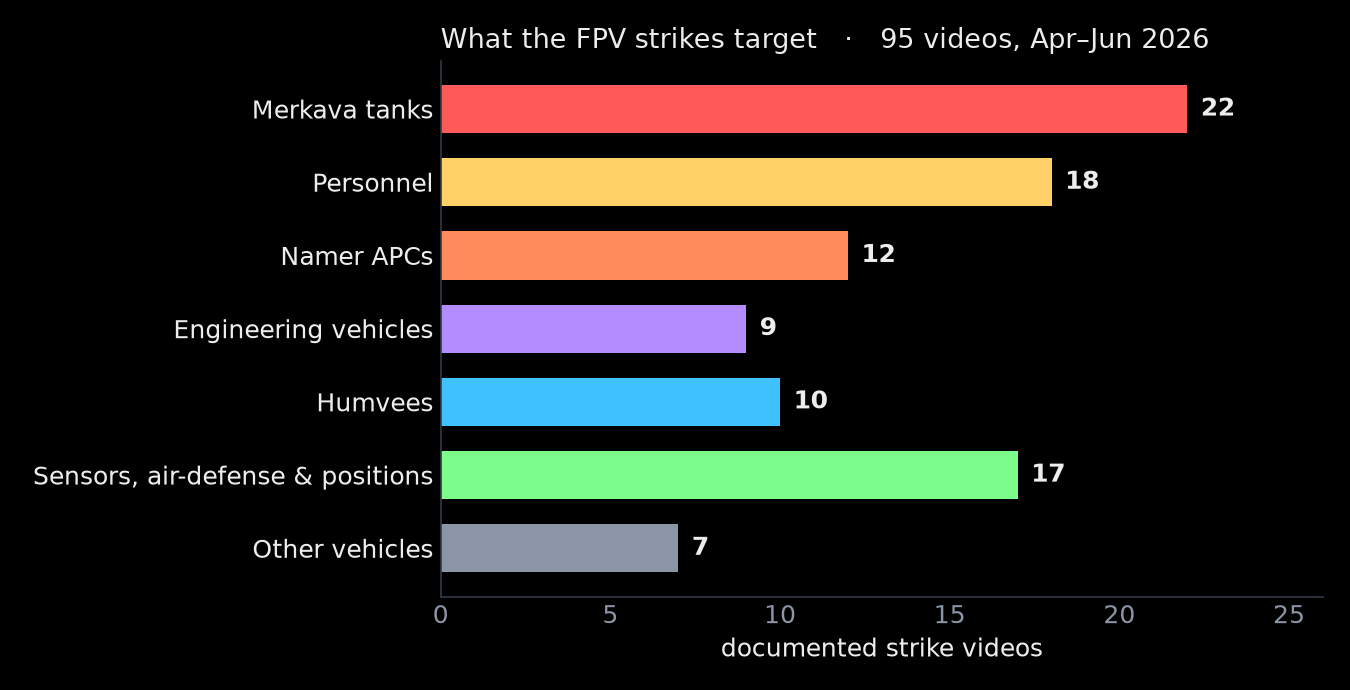
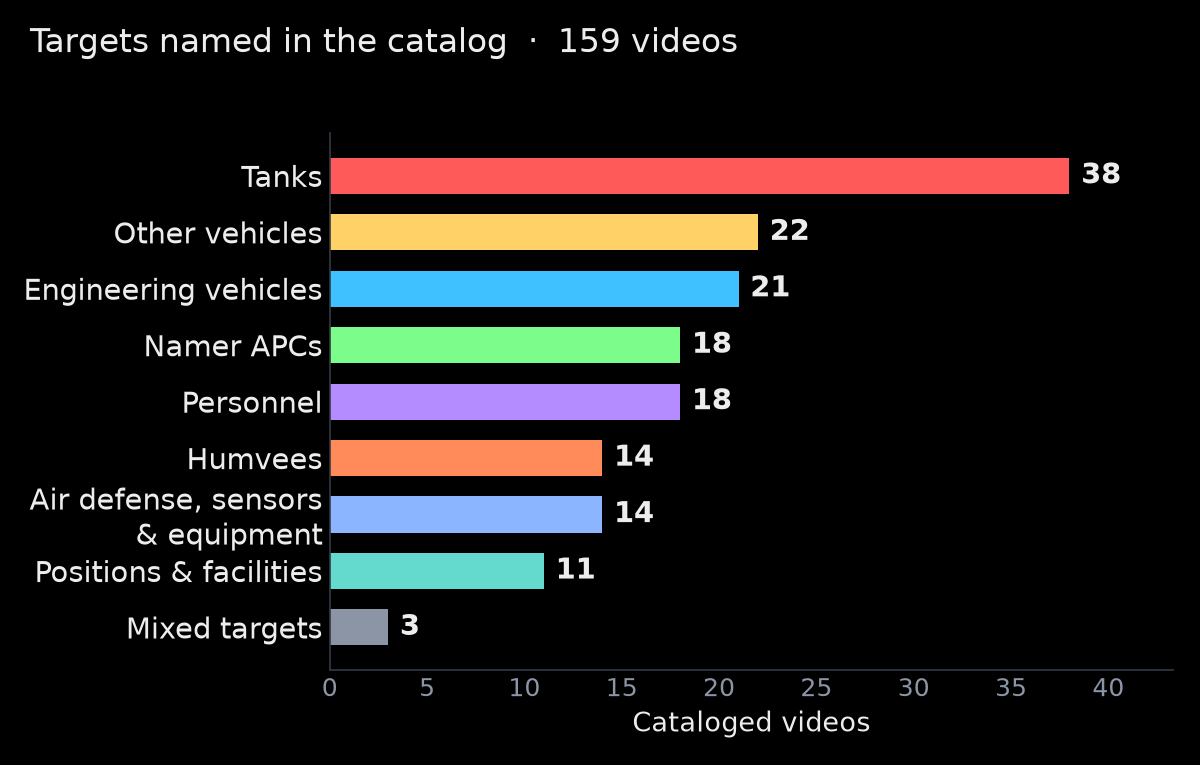
Refresh FPV post charts from the full public catalog

diff --git a/research/fpv-drone-strikes/sim/figures.py b/research/fpv-drone-strikes/sim/figures.py
@@ -1,24 +1,27 @@
-"""
-Dataset-overview figures for the FPV-drone-strikes post.
+"""Generate the catalog charts and schematic figures for the FPV-drone-strikes post."""
 
-  - target_mix.png : what the enemy strikes — REAL counts parsed from the dataset
-                     manifest snapshot (../2026-06-21_manifest_snapshot.tsv).
-  - timeline.png   : cumulative documented strikes over time (REAL dates).
-  - pipeline.png   : qualitative schematic of the video -> 3-D flight-path pipeline
-                     (no numeric axes — it's a concept diagram).
-  - social.png     : 1200x630 OpenGraph card.
+import argparse
+from collections import Counter
+from datetime import date, timedelta
+import json
+import os
+from pathlib import Path
+import re
+from urllib.request import urlopen
 
-Counts are real; the target buckets are a coarse hand-grouping of the manifest's
-free-text slugs (see categorize()). Re-run after pulling a fresh manifest.
-"""
-import os, csv, datetime as dt, numpy as np
 import matplotlib
 matplotlib.use("Agg")
+import matplotlib.dates as mdates
 import matplotlib.pyplot as plt
 from matplotlib.patches import FancyBboxPatch, FancyArrowPatch
+from matplotlib.ticker import MaxNLocator
 
 HERE = os.path.dirname(os.path.abspath(__file__))
-MANIFEST = os.path.join(HERE, "..", "2026-06-21_manifest_snapshot.tsv")
+CATALOG_REVISION = "20b7f30e44648dcd703628eadb4ce733e0a3465b"
+CATALOG_URL = (
+    "https://raw.githubusercontent.com/itamarwe/fpv-drone-strikes-lebanon-dataset/"
+    f"{CATALOG_REVISION}/data/catalog.json"
+)
 OUT = os.path.abspath(os.path.join(HERE, "..", "..", "..", "public", "img", "fpv-drone-strikes"))
 os.makedirs(OUT, exist_ok=True)
 
@@ -31,101 +34,102 @@ plt.rcParams.update({
     "ytick.color": MUTED, "axes.edgecolor": "#333a45", "font.size": 12,
 })
 
-def categorize(slug):
-    s = slug.lower()
-    if "merkava" in s or ("tank" in s and "anti" not in s):
-        return "Merkava tanks"
-    if "namer" in s:
-        return "Namer APCs"
-    if "humvee" in s or "hummer" in s:
-        return "Humvees"
-    if any(k in s for k in ["d9", "bulldozer", "excavator", "engineering", "digger"]):
-        return "Engineering vehicles"
-    if any(k in s for k in ["soldier", "troop", "personnel", "commander", "forces", "company"]):
-        return "Personnel"
-    if any(k in s for k in ["iron_dome", "launcher", "radar", "camera", "drone_control",
-                            "anti_drone", "howitzer", "sholef", "communications",
-                            "surveillance", "platform", "position", "command", "hq"]):
-        return "Sensors, air-defense & positions"
-    return "Other vehicles"
+# Match the target phrase before the first comma, which usually introduces
+# the location. The specific target and mixed-target rules precede broader ones.
+TARGET_GROUPS = (
+    ("Mixed targets", r"^israeli army vehicles and soldiers|^soldier gathering \+|"
+                      r"^soldiers' position and"),
+    ("Tanks", r"\btanks?\b"),
+    ("Namer APCs", r"\bnamers?\b|\bnamera\b"),
+    ("Humvees", r"\b(?:humvees?|hummers?)\b"),
+    ("Engineering vehicles", r"\b(?:d9|bulldozers?|excavators?|engineering vehicles?)\b"),
+    ("Air defense, sensors & equipment",
+     r"\b(?:iron dome|radar|camera|drone control system|counter-drone system|"
+     r"communications (?:system|equipment)|technical equipment)\b"),
+    ("Other vehicles", r"\b(?:vehicles?|tankers?|troop carriers?|apcs?)\b"),
+    ("Positions & facilities",
+     r"\b(?:positions?|positioning|logistics point|tent|house|command center|command room|hq)\b"),
+    ("Personnel", r"\b(?:soldiers?|personnel|forces?)\b"),
+)
 
-ORDER = ["Merkava tanks", "Personnel", "Namer APCs", "Engineering vehicles",
-         "Humvees", "Sensors, air-defense & positions", "Other vehicles"]
 
-def load():
-    rows = []
-    with open(MANIFEST) as f:
-        for r in csv.DictReader(f, delimiter="\t"):
-            rows.append(r)
-    return rows
+def categorize(description):
+    target = description.split(",", 1)[0].lower()
+    for category, pattern in TARGET_GROUPS:
+        if re.search(pattern, target):
+            return category
+    return "Unclassified"
 
-def parse_dates(rows):
-    ds = []
-    for r in rows:
-        try:
-            ds.append(dt.date.fromisoformat(r["date"]))
-        except Exception:
-            pass
-    return sorted(ds)
 
-# --------------------------------------------------------------------------
+def load_catalog(path):
+    if path is None:
+        with urlopen(CATALOG_URL, timeout=30) as response:
+            return json.load(response)["videos"]
+    return json.loads(path.read_text(encoding="utf-8"))["videos"]
+
+
+def format_date(day):
+    return f"{day:%b} {day.day}"
+
+
 def fig_target_mix(rows):
-    from collections import Counter
-    c = Counter(categorize(r["slug"]) for r in rows)
-    cats = [k for k in ORDER if k in c]
-    vals = [c[k] for k in cats]
-    total = sum(c.values())
-    colors = [RED, GOLD, "#ff8a5a", PURPLE, CYAN, GREEN, MUTED][:len(cats)]
-    fig, ax = plt.subplots(figsize=(9, 4.6))
-    y = np.arange(len(cats))[::-1]
-    ax.barh(y, vals, color=colors, height=0.66)
-    for yi, v in zip(y, vals):
-        ax.text(v + 0.4, yi, str(v), va="center", color=TXT, fontsize=12, fontweight="bold")
-    ax.set_yticks(y); ax.set_yticklabels(cats, fontsize=12, color=TXT)
-    ax.set_xlim(0, max(vals) + 4)
-    ax.set_xlabel("documented strike videos")
-    ax.set_title(f"What the FPV strikes target   ·   {total} videos, Apr–Jun 2026",
-                 color=TXT, fontsize=13, loc="left")
-    for sp in ["top", "right"]:
-        ax.spines[sp].set_visible(False)
+    counts = Counter(categorize(row["description"]) for row in rows)
+    categories, values = zip(*counts.most_common())
+    positions = range(len(categories))
+    colors = [RED, GOLD, CYAN, GREEN, PURPLE, "#ff8a5a", "#8cb5ff", "#64dace", MUTED]
+
+    fig, ax = plt.subplots(figsize=(8, 5.1))
+    ax.barh(positions, values, color=colors[:len(categories)], height=0.64)
+    for position, value in zip(positions, values):
+        ax.text(value + 0.6, position, str(value), va="center", fontsize=14, fontweight="bold")
+    labels = [category.replace("sensors & equipment", "sensors\n& equipment")
+              for category in categories]
+    ax.set_yticks(positions, labels, fontsize=14, color=TXT)
+    ax.invert_yaxis()
+    ax.set_xlim(0, max(values) * 1.14)
+    ax.xaxis.set_major_locator(MaxNLocator(integer=True))
+    ax.set_xlabel("Cataloged videos", fontsize=13)
+    fig.suptitle(f"Targets named in the catalog  ·  {len(rows)} videos",
+                 x=0.025, y=0.965, ha="left", fontsize=16)
+    for spine in ("top", "right"):
+        ax.spines[spine].set_visible(False)
     ax.tick_params(length=0)
-    fig.tight_layout()
+    fig.tight_layout(rect=(0, 0, 1, 0.94))
     fig.savefig(os.path.join(OUT, "target_mix.png"), dpi=150, facecolor=BG)
     plt.close(fig)
-    print("target_mix.png", dict(zip(cats, vals)))
+    print("target_mix.png", dict(counts.most_common()))
+
 
 def fig_timeline(rows):
-    ds = parse_dates(rows)
-    d0, d1 = ds[0], ds[-1]
-    days = [(d - d0).days for d in ds]
-    span = (d1 - d0).days
-    cum = np.arange(1, len(ds) + 1)
-    fig, ax = plt.subplots(figsize=(9, 3.8))
-    ax.fill_between(days, cum, color=CYAN, alpha=0.18, step="post")
-    ax.step(days, cum, where="post", color=CYAN, lw=2.2)
-    ax.scatter(days, cum, s=10, color=CYAN, zorder=3)
-    # month ticks
-    ticks, labels = [], []
-    cur = dt.date(d0.year, d0.month, 1)
-    while cur <= d1:
-        ticks.append((cur - d0).days)
-        labels.append(cur.strftime("%b %-d"))
-        cur = (cur.replace(day=28) + dt.timedelta(days=7)).replace(day=1)
-    ax.set_xticks(ticks); ax.set_xticklabels(labels)
-    ax.set_xlim(-1, span + 1); ax.set_ylim(0, len(ds) + 14)
-    ax.set_ylabel("cumulative videos")
-    ax.set_title("A constantly-growing log of documented strikes", color=TXT,
-                 fontsize=13, loc="left")
-    # label sits in the empty upper-left region, clear of the climbing curve
-    ax.text(span * 0.03, len(ds) + 6,
-            f"{d0.strftime('%b %-d')} → {d1.strftime('%b %-d')}, {d1.year}\nand still climbing",
-            color=GOLD, fontsize=11, va="top", linespacing=1.4)
-    for sp in ["top", "right"]:
-        ax.spines[sp].set_visible(False)
+    daily = Counter(date.fromisoformat(row["date"]) for row in rows)
+    dates = sorted(daily)
+    first, last = dates[0], dates[-1]
+    start = first - timedelta(days=1)
+    cumulative = [0]
+    for day in dates:
+        cumulative.append(cumulative[-1] + daily[day])
+
+    fig, ax = plt.subplots(figsize=(8, 3.9))
+    ax.fill_between([start, *dates], cumulative, color=CYAN, alpha=0.18, step="post")
+    ax.step([start, *dates], cumulative, where="post", color=CYAN, lw=2.2)
+    ax.scatter(last, cumulative[-1], s=30, color=CYAN, zorder=3)
+    ax.xaxis.set_major_locator(mdates.MonthLocator())
+    ax.xaxis.set_major_formatter(mdates.DateFormatter("%b"))
+    ax.yaxis.set_major_locator(MaxNLocator(nbins=5, integer=True))
+    ax.set_xlim(start, last + timedelta(days=3))
+    ax.set_ylim(0, len(rows) * 1.12)
+    ax.set_ylabel("Cumulative videos", fontsize=13)
+    ax.set_title("Cumulative videos by catalog date", fontsize=15, loc="left", pad=12)
+    ax.text(0.03, 0.94,
+            f"{len(rows)} videos\n{format_date(first)} – {format_date(last)}, {last.year}",
+            transform=ax.transAxes, color=GOLD, fontsize=13, va="top", linespacing=1.4)
+    for spine in ("top", "right"):
+        ax.spines[spine].set_visible(False)
     fig.tight_layout()
     fig.savefig(os.path.join(OUT, "timeline.png"), dpi=150, facecolor=BG)
     plt.close(fig)
-    print("timeline.png", len(ds), "videos over", span, "days")
+    print("timeline.png", len(rows), "videos,", first, "through", last)
+
 
 def fig_pipeline():
     fig, ax = plt.subplots(figsize=(10, 3.4))
@@ -190,8 +194,14 @@ def fig_social():
     print("social.png")
 
 if __name__ == "__main__":
-    rows = load()
+    parser = argparse.ArgumentParser(description=__doc__)
+    parser.add_argument("--catalog", type=Path, help="Use a local catalog.json instead of the pinned snapshot.")
+    parser.add_argument("--charts-only", action="store_true", help="Render only target_mix.png and timeline.png.")
+    args = parser.parse_args()
+
+    rows = load_catalog(args.catalog)
     fig_target_mix(rows)
     fig_timeline(rows)
-    fig_pipeline()
-    fig_social()
+    if not args.charts_only:
+        fig_pipeline()
+        fig_social()

diff --git a/content/posts/2026-06-21-fpv-drone-strikes-open-dataset.md b/content/posts/2026-06-21-fpv-drone-strikes-open-dataset.md
@@ -16,10 +16,12 @@ It's public on purpose. **I want anyone who is trying to understand how the enem
 
 ## What's in the dataset
 
-At the time of writing it's **95 strike videos** spanning 2026-04-29 to 2026-06-13,
-and it grows as new footage surfaces. The repo itself is deliberately lightweight —
-a catalog with stable links — while the MP4s and thumbnails live in S3. Each entry
-is just enough to be useful:
+When I first published this post, the dataset had 95 videos. The November 1, 2026
+snapshot used here contains **159 videos** dated **March 25 to June 17, 2026**.
+[Catalog snapshot](https://github.com/itamarwe/fpv-drone-strikes-lebanon-dataset/blob/20b7f30e44648dcd703628eadb4ce733e0a3465b/data/catalog.json)
+
+The repo itself is deliberately lightweight — a catalog with stable links —
+while the MP4s and thumbnails live in S3. Each entry is just enough to be useful:
 
 - a **date**,
 - a **first-frame thumbnail**,
@@ -35,26 +37,21 @@ and
 
 ## What the enemy is actually striking
 
-Once you tabulate the target labels, the mix is its own piece of intelligence. This
-is **real counts** from the dataset manifest, not an estimate:
+I grouped the videos by the targets named in the catalog descriptions. Each clip
+counts once. I used **mixed targets** when the description listed both a vehicle
+and a separate group of people or a position.
 
-![Target mix across the dataset: Merkava tanks, personnel, Namer APCs, engineering vehicles, Humvees, sensors and air-defense](/img/fpv-drone-strikes/target_mix.png)
+![Catalog videos by target type. Tanks lead with 38 clips. Engineering vehicles appear in 21, Namer APCs and personnel in 18 each.](/img/fpv-drone-strikes/target_mix.png)
 
-Armor dominates — Merkava tanks are the single most-targeted category — followed by
-personnel and Namer APCs. But the long tail is the interesting part: **engineering
-vehicles** (D9 bulldozers, excavators) clearing terrain, and a cluster of
-**sensors, air-defense and counter-UAS platforms** — surveillance cameras, radar,
-Iron Dome launchers, even "anti-drone platforms." The enemy is deliberately going
-after the things that would *see* or *stop* the next drone. That alone tells you
-where defensive effort is worth spending.
+**Tanks are the largest single group**, with 38 videos. I also counted 21 clips
+of engineering vehicles such as bulldozers and excavators, and 14 in the group
+that includes Iron Dome launchers, surveillance cameras and counter-drone
+systems.
 
-And it keeps coming. Plotting the videos by date, the log just climbs:
+I plotted the same videos by their catalog dates. May accounts for **102 of the
+159 clips**. The curve reflects the footage I was able to collect and catalog.
 
-![Cumulative documented strike videos over time, climbing steadily from late April to mid-June 2026](/img/fpv-drone-strikes/timeline.png)
-
-That's the case for keeping this open and current: a snapshot ages instantly; a
-living dataset lets a detection model — or a person — keep learning as the tactics
-shift.
+![Cumulative catalog videos by date, reaching 159 on June 17, 2026.](/img/fpv-drone-strikes/timeline.png)
 
 ## Example — extracting FPV attack paths
 

diff --git a/research/fpv-drone-strikes/README.md b/research/fpv-drone-strikes/README.md
@@ -5,19 +5,17 @@ Source behind the post
 Everything here regenerates the figures and the path-extraction video, which live
 in `public/img/fpv-drone-strikes/`.
 
-The dataset itself (the 95 strike videos + manifest) lives in a separate repo:
+The dataset and its canonical catalog live in a separate repo:
 <https://github.com/itamarwe/fpv-drone-strikes-lebanon-dataset>.
 
 ## Layout
 
 ```
-2026-06-21_manifest_snapshot.tsv   Frozen copy of the dataset manifest the
-                                   figures are computed from (the live one keeps
-                                   growing).
+2026-06-21_manifest_snapshot.tsv   Historical input for the original charts.
 clips/                             (gitignored, large) the source strike MP4.
 sim/
-  figures.py     Dataset-overview figures: target_mix.png (REAL counts from the
-                 manifest), timeline.png (REAL dates), pipeline.png (qualitative
+  figures.py     Dataset-overview figures: target_mix.png (target descriptions
+                 from the catalog), timeline.png (catalog dates), pipeline.png (qualitative
                  schematic, no numeric axes), and the 1200x630 social.png card
                  (built around a real strike-video frame).
   render_path.py Renders the REAL VGGT output: reconstruction_hero.png and the
@@ -34,7 +32,22 @@ vggt/
   frames2/         (gitignored) the 129 sampled FPV frames, one per recovered pose.
 ```
 
-## Reproduce
+## Reproduce the catalog charts
+
+From this directory, use a Python virtual environment with Matplotlib installed.
+
+```bash
+python sim/figures.py --charts-only
+```
+
+The command reads the [pinned catalog revision](https://github.com/itamarwe/fpv-drone-strikes-lebanon-dataset/blob/20b7f30e44648dcd703628eadb4ce733e0a3465b/data/catalog.json)
+used in the post. To try a different snapshot, pass `--catalog /path/to/catalog.json`.
+The target chart groups the target phrases from the descriptions. The timeline
+counts videos by catalog date, collecting all the clips on a given date into
+one step. Both charts count catalog entries, including clips that cover multiple
+targets or strikes.
+
+## Reproduce the reconstruction and post assets
 
 ```bash
 python -m venv vggt/venv && source vggt/venv/bin/activate
@@ -66,5 +79,3 @@ python sim/figures.py             # target_mix / timeline / pipeline / social
 - VGGT mis-estimated **3 of 129 poses** (motion blur + the seam where the loiter was
   cut); `render_path.py` flags them as outliers (red crosses) and interpolates the
   drawn line across them.
-- `target_mix.png` buckets are a coarse hand-grouping of the manifest's free-text
-  slugs (see `categorize()` in `figures.py`); the **counts are exact**.
